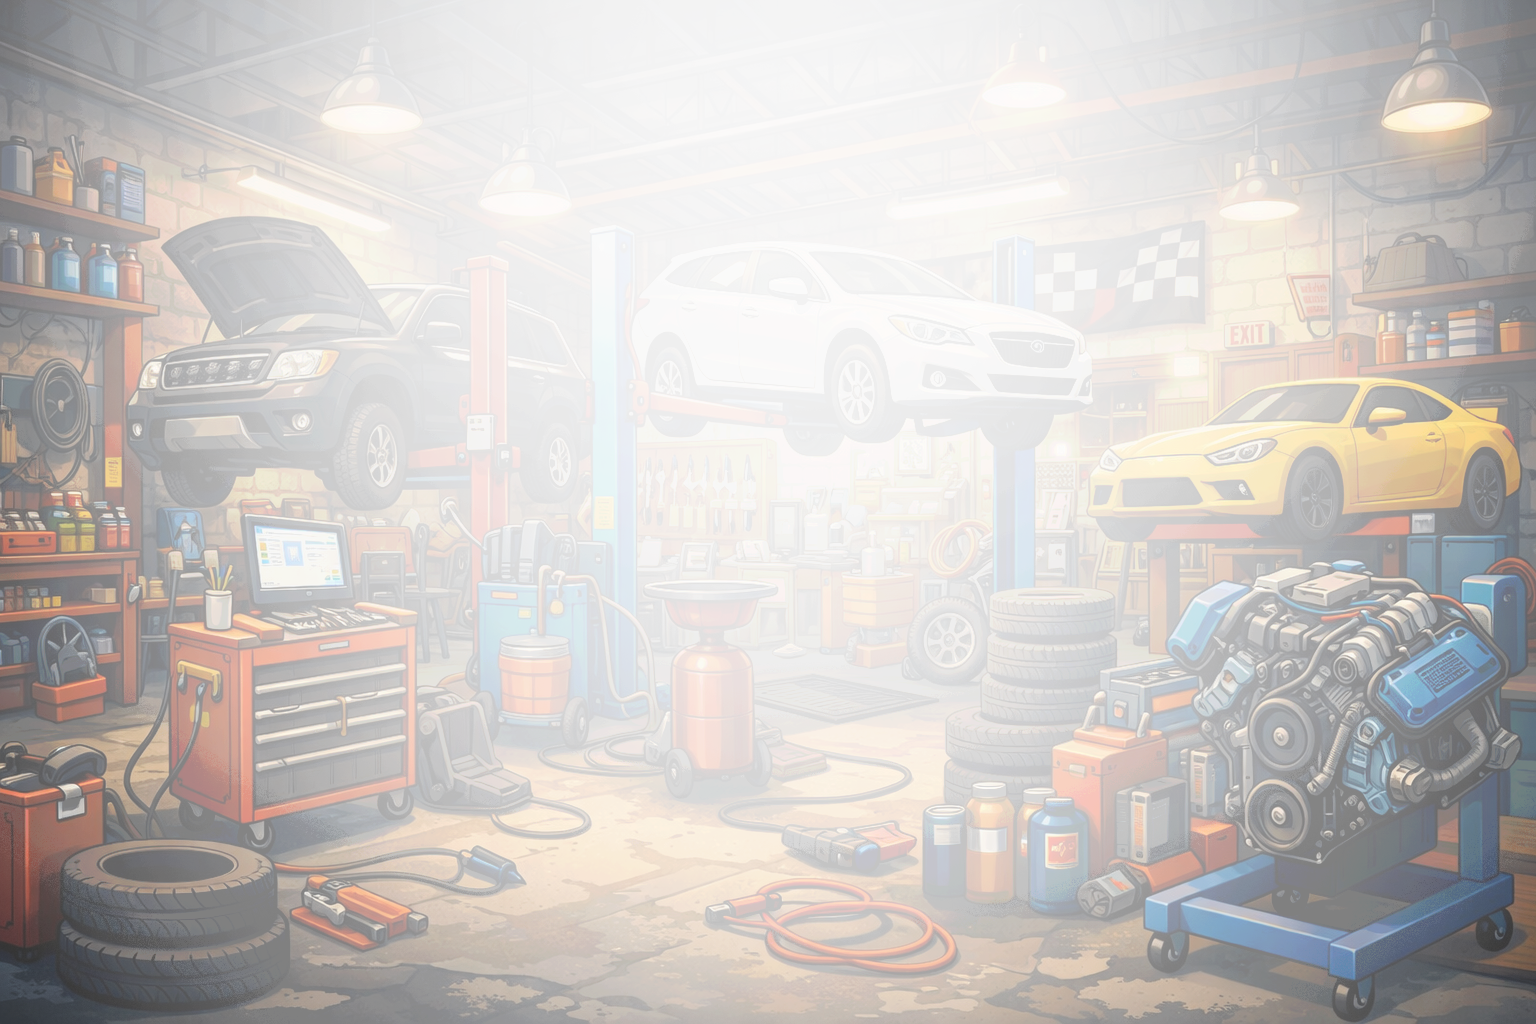
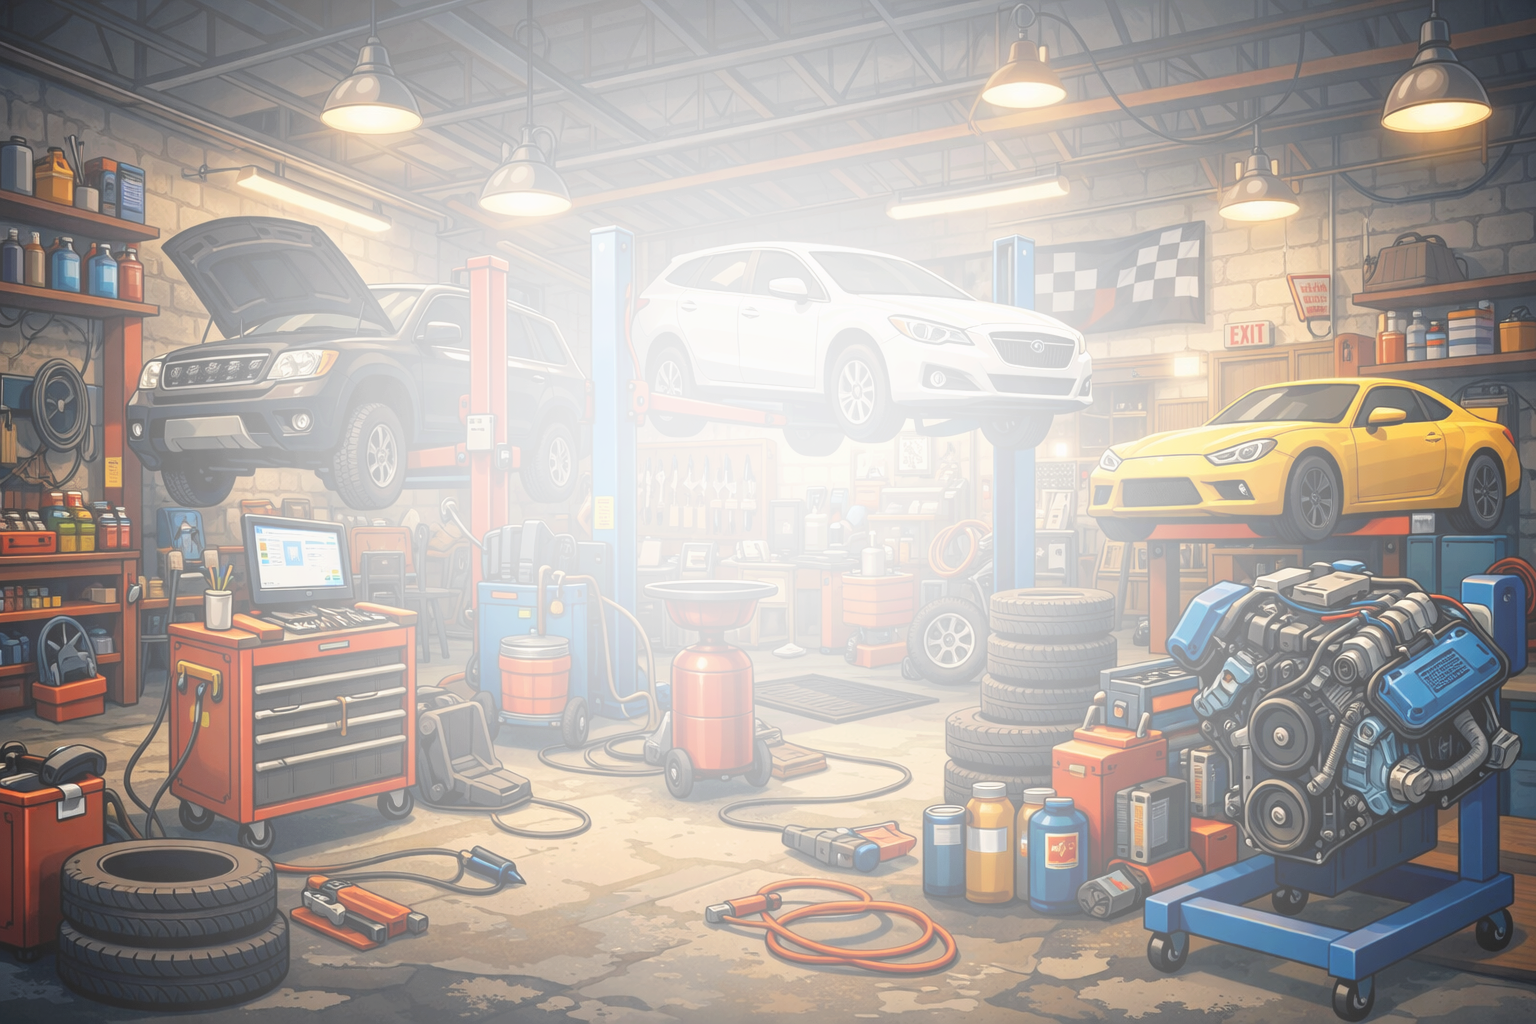
update design

diff --git a/src/pages/HomePage.tsx b/src/pages/HomePage.tsx
@@ -1,5 +1,6 @@
-import {NavLink} from 'react-router-dom'
-import {Seo} from '@/shared/seo/Seo.tsx'
+import { NavLink } from 'react-router-dom'
+import { ArrowRight, ChevronRight } from 'lucide-react'
+import { Seo } from '@/shared/seo/Seo.tsx'
 
 export function HomePage() {
     return (
@@ -19,9 +20,9 @@ export function HomePage() {
                         border-b bg-cover bg-center text-center
                         pt-64
                     "
-                    style={{backgroundImage: 'url(/sto-site/background.png)'}}
+                    style={{ backgroundImage: 'url(/sto-site/background.png)' }}
                 >
-                    <div className="absolute inset-0 bg-white/60"/>
+                    <div className="absolute inset-0 bg-white/40" />
 
                     <div className="relative mx-auto max-w-3xl px-4">
                         <h1 className="mb-6 text-4xl font-semibold text-gray-900">
@@ -36,17 +37,17 @@ export function HomePage() {
                         <NavLink
                             to="/services"
                             className="
-                                inline-flex items-center justify-center
+                                group inline-flex items-center justify-center gap-2
                                 rounded bg-blue-600 px-8 py-3
                                 text-base font-medium text-white
                                 transition-colors hover:bg-blue-700
                             "
                         >
                             Переглянути послуги
+                            <ArrowRight className="h-4 w-4 transition-transform group-hover:translate-x-1" />
                         </NavLink>
                     </div>
                 </section>
-
 
                 {/* УСЛУГИ */}
                 <section className="py-16">
@@ -64,27 +65,37 @@ export function HomePage() {
                         <div className="flex flex-col gap-6">
                             <NavLink
                                 to="/services/starters"
-                                className="rounded border border-gray-200 p-4 transition-colors hover:border-blue-600"
+                                className="
+                                    group rounded border border-gray-200 p-4
+                                    transition-colors hover:border-blue-600
+                                "
                             >
                                 <p className="mb-2 text-sm text-gray-600">
                                     Ремонт стартерів з урахуванням реального зносу,
                                     навантажень і стану вузлів.
                                 </p>
-                                <span className="font-medium text-gray-900">
+
+                                <span className="flex items-center gap-1 font-medium text-gray-900">
                                     Ремонт стартерів
+                                    <ChevronRight className="h-4 w-4 text-gray-400 transition-transform group-hover:translate-x-0.5" />
                                 </span>
                             </NavLink>
 
                             <NavLink
                                 to="/services/generators"
-                                className="rounded border border-gray-200 p-4 transition-colors hover:border-blue-600"
+                                className="
+                                    group rounded border border-gray-200 p-4
+                                    transition-colors hover:border-blue-600
+                                "
                             >
                                 <p className="mb-2 text-sm text-gray-600">
                                     Генератори перевіряємо під навантаженням,
                                     а не «на слух» чи візуально.
                                 </p>
-                                <span className="font-medium text-gray-900">
+
+                                <span className="flex items-center gap-1 font-medium text-gray-900">
                                     Ремонт генераторів
+                                    <ChevronRight className="h-4 w-4 text-gray-400 transition-transform group-hover:translate-x-0.5" />
                                 </span>
                             </NavLink>
                         </div>
@@ -106,25 +117,35 @@ export function HomePage() {
                         <div className="flex flex-col gap-4">
                             <NavLink
                                 to="/gallery/equipment"
-                                className="rounded border border-gray-200 px-4 py-3 transition-colors hover:border-blue-600"
+                                className="
+                                    group rounded border border-gray-200 px-4 py-3
+                                    transition-colors hover:border-blue-600
+                                "
                             >
                                 <p className="mb-1 text-sm text-gray-600">
                                     Обладнання, на якому ми реально працюємо щодня.
                                 </p>
-                                <span className="font-medium text-gray-900">
+
+                                <span className="flex items-center gap-1 font-medium text-gray-900">
                                     Наше обладнання
+                                    <ChevronRight className="h-4 w-4 text-gray-400 transition-transform group-hover:translate-x-0.5" />
                                 </span>
                             </NavLink>
 
                             <NavLink
                                 to="/gallery/before-after"
-                                className="rounded border border-gray-200 px-4 py-3 transition-colors hover:border-blue-600"
+                                className="
+                                    group rounded border border-gray-200 px-4 py-3
+                                    transition-colors hover:border-blue-600
+                                "
                             >
                                 <p className="mb-1 text-sm text-gray-600">
                                     Результати роботи без ретуші та маркетингових фото.
                                 </p>
-                                <span className="font-medium text-gray-900">
+
+                                <span className="flex items-center gap-1 font-medium text-gray-900">
                                     До / Після
+                                    <ChevronRight className="h-4 w-4 text-gray-400 transition-transform group-hover:translate-x-0.5" />
                                 </span>
                             </NavLink>
                         </div>
@@ -145,9 +166,13 @@ export function HomePage() {
 
                         <NavLink
                             to="/payment-delivery"
-                            className="text-sm font-medium text-blue-600 hover:underline"
+                            className="
+                                group inline-flex items-center gap-1
+                                text-sm font-medium text-blue-600 hover:underline
+                            "
                         >
                             Детальніше
+                            <ChevronRight className="h-4 w-4 transition-transform group-hover:translate-x-0.5" />
                         </NavLink>
                     </div>
                 </section>
@@ -166,9 +191,13 @@ export function HomePage() {
 
                         <NavLink
                             to="/contacts"
-                            className="text-sm font-medium text-blue-600 hover:underline"
+                            className="
+                                group inline-flex items-center gap-1
+                                text-sm font-medium text-blue-600 hover:underline
+                            "
                         >
                             Перейти до контактів
+                            <ChevronRight className="h-4 w-4 transition-transform group-hover:translate-x-0.5" />
                         </NavLink>
                     </div>
                 </section>

diff --git a/src/app/router.tsx b/src/app/router.tsx
@@ -1,50 +1,50 @@
-import { createBrowserRouter, Navigate } from 'react-router-dom'
+import {createBrowserRouter, Navigate} from 'react-router-dom'
 
-import { Layout } from '../pages/Layout'
-import { HomePage } from '../pages/HomePage'
-import { NotFoundPage } from '../pages/NotFoundPage'
-import { ContactsPage } from '../pages/ContactsPage'
-import { PaymentDeliveryPage } from '../pages/PaymentDeliveryPage'
+import {Layout} from '../pages/Layout'
+import {HomePage} from '../pages/HomePage'
+import {NotFoundPage} from '../pages/NotFoundPage'
+import {ContactsPage} from '../pages/ContactsPage'
+import {PaymentDeliveryPage} from '../pages/PaymentDeliveryPage'
 
 // services
-import { ServicesPage } from '../pages/services/ServicesPage'
-import { StartersPage } from '../pages/services/StartersPage'
-import { GeneratorsPage } from '../pages/services/GeneratorsPage'
+import {ServicesPage} from '../pages/services/ServicesPage'
+import {StartersPage} from '../pages/services/StartersPage'
+import {GeneratorsPage} from '../pages/services/GeneratorsPage'
 
 // gallery
-import { GalleryPage } from '../pages/gallery/GalleryPage'
-import { EquipmentPage } from '../pages/gallery/EquipmentPage'
-import { BeforeAfterPage } from '../pages/gallery/BeforeAfterPage'
+import {GalleryPage} from '../pages/gallery/GalleryPage'
+import {EquipmentPage} from '../pages/gallery/EquipmentPage'
+import {BeforeAfterPage} from '../pages/gallery/BeforeAfterPage'
 
 export const router = createBrowserRouter(
     [
         {
             path: '/',
-            element: <Layout />,
-            errorElement: <NotFoundPage />,
+            element: <Layout/>,
+            errorElement: <NotFoundPage/>,
             children: [
                 // Главная
                 {
                     index: true,
-                    element: <HomePage />,
+                    element: <HomePage/>,
                 },
 
                 // Услуги
                 {
                     path: 'services',
-                    element: <ServicesPage />,
+                    element: <ServicesPage/>,
                     children: [
                         {
                             index: true,
-                            element: <Navigate to="starters" replace />,
+                            element: <Navigate to="starters" replace/>,
                         },
                         {
                             path: 'starters',
-                            element: <StartersPage />,
+                            element: <StartersPage/>,
                         },
                         {
                             path: 'generators',
-                            element: <GeneratorsPage />,
+                            element: <GeneratorsPage/>,
                         },
                     ],
                 },
@@ -52,19 +52,19 @@ export const router = createBrowserRouter(
                 // Галерея
                 {
                     path: 'gallery',
-                    element: <GalleryPage />,
+                    element: <GalleryPage/>,
                     children: [
                         {
                             index: true,
-                            element: <Navigate to="equipment" replace />,
+                            element: <Navigate to="equipment" replace/>,
                         },
                         {
                             path: 'equipment',
-                            element: <EquipmentPage />,
+                            element: <EquipmentPage/>,
                         },
                         {
                             path: 'before-after',
-                            element: <BeforeAfterPage />,
+                            element: <BeforeAfterPage/>,
                         },
                     ],
                 },
@@ -72,19 +72,19 @@ export const router = createBrowserRouter(
                 // Оплата / доставка
                 {
                     path: 'payment-delivery',
-                    element: <PaymentDeliveryPage />,
+                    element: <PaymentDeliveryPage/>,
                 },
 
                 // Контакты
                 {
                     path: 'contacts',
-                    element: <ContactsPage />,
+                    element: <ContactsPage/>,
                 },
 
                 // 404 (fallback)
                 {
                     path: '*',
-                    element: <NotFoundPage />,
+                    element: <NotFoundPage/>,
                 },
             ],
         },

diff --git a/src/pages/PaymentDeliveryPage.tsx b/src/pages/PaymentDeliveryPage.tsx
@@ -2,7 +2,7 @@ import { Seo } from '../shared/seo/Seo'
 
 export function PaymentDeliveryPage() {
     return (
-        <main className="py-16">
+        <div className="py-16 pt-20">
             <Seo
                 title="Оплата та доставка"
                 description="Умови оплати та доставки при ремонті стартерів і генераторів. Готівковий та безготівковий розрахунок, самовивіз."
@@ -40,6 +40,6 @@ export function PaymentDeliveryPage() {
                     </p>
                 </section>
             </div>
-        </main>
+        </div>
     )
 }

diff --git a/src/pages/ContactsPage.tsx b/src/pages/ContactsPage.tsx
@@ -2,7 +2,7 @@ import { Seo } from '../shared/seo/Seo'
 
 export function ContactsPage() {
     return (
-        <main className="py-16">
+        <div className="py-16 pt-20">
             <Seo
                 title="Контакти"
                 description="Контактна інформація майстерні з ремонту стартерів і генераторів в Одесі. Телефон, адреса, графік роботи."
@@ -82,6 +82,6 @@ export function ContactsPage() {
                     />
                 </section>
             </div>
-        </main>
+        </div>
     )
 }

diff --git a/src/pages/services/ServicesPage.tsx b/src/pages/services/ServicesPage.tsx
@@ -2,7 +2,7 @@ import { Outlet } from 'react-router-dom'
 
 export function ServicesPage() {
     return (
-        <section className="py-16">
+        <section className="py-16 pt-20">
             <div className="mx-auto max-w-6xl px-4">
                 <h1 className="mb-8 text-2xl font-semibold text-gray-900">
                     Послуги

diff --git a/src/pages/gallery/GalleryPage.tsx b/src/pages/gallery/GalleryPage.tsx
@@ -2,7 +2,7 @@ import { Outlet } from 'react-router-dom'
 
 export function GalleryPage() {
     return (
-        <section className="py-16">
+        <section className="py-16 pt-20">
             <div className="mx-auto max-w-6xl px-4">
                 <Outlet />
             </div>
